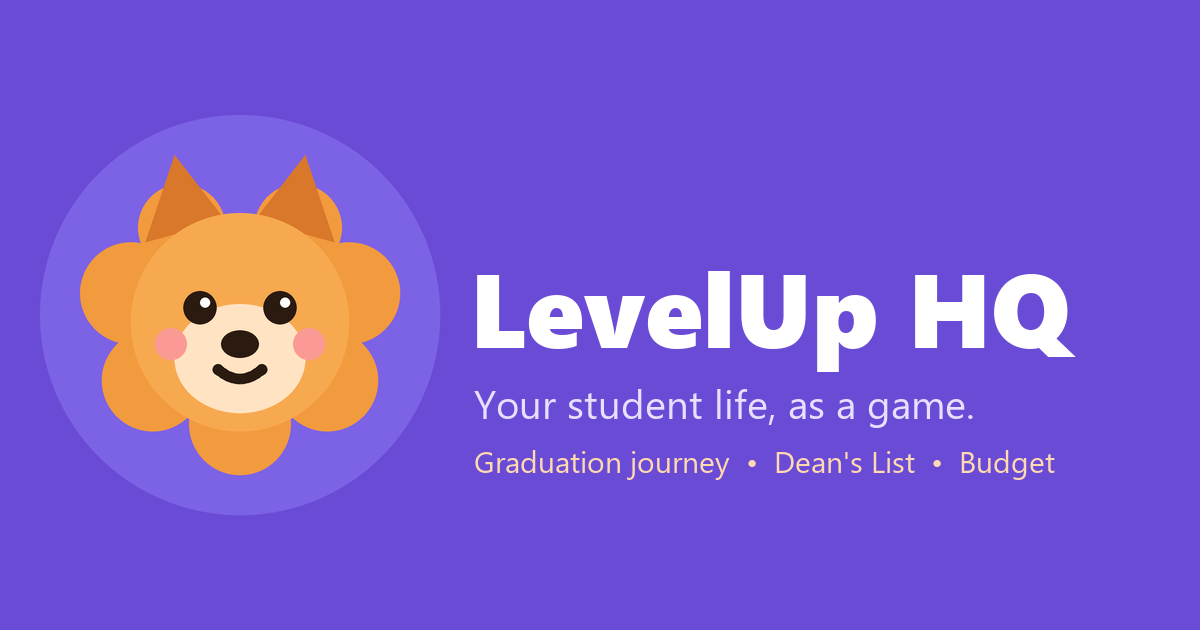
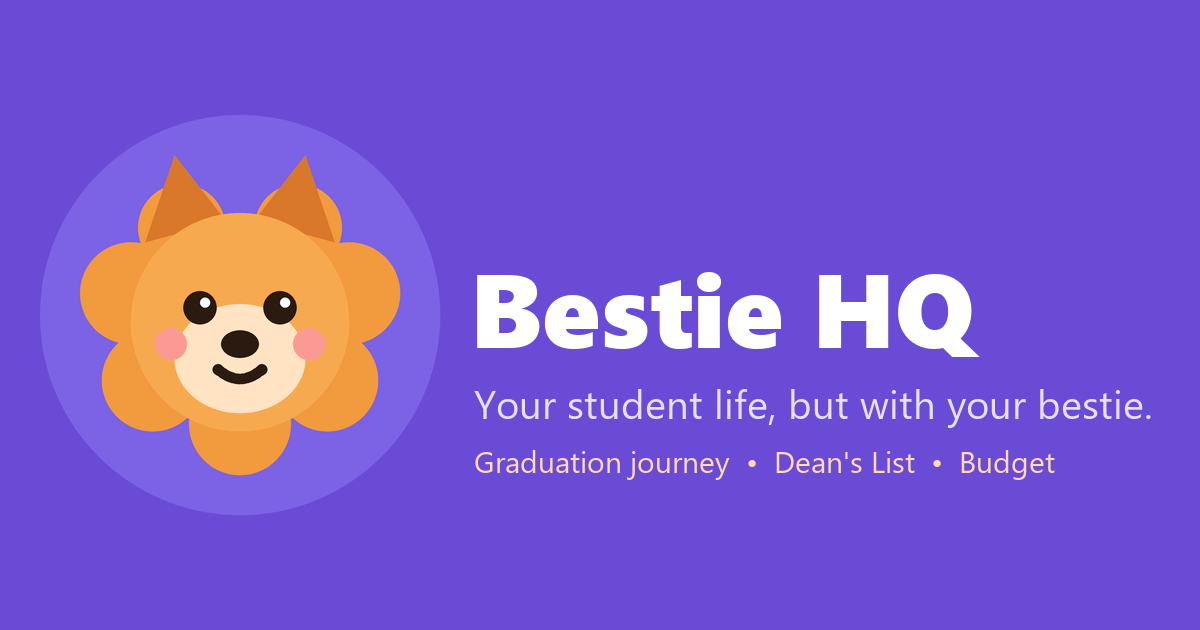
Rename the app to Bestie HQ (repo and link keep their old name)

Changed region(s): [[0.4008, 0.4222, 0.8942, 0.6032], [0.6475, 0.6032, 0.9558, 0.6937]]

diff --git a/index.html b/index.html
@@ -5,10 +5,10 @@
 <meta name="viewport" content="width=device-width, initial-scale=1, viewport-fit=cover">
 <meta name="theme-color" content="#f5f2fb" media="(prefers-color-scheme: light)">
 <meta name="theme-color" content="#140f20" media="(prefers-color-scheme: dark)">
-<title>LevelUp HQ</title>
+<title>Bestie HQ</title>
 <meta name="description" content="A cute, game-like student life app. Track your road to graduation, side quests, budget and wishlist, with a Pomeranian buddy.">
 <meta property="og:type" content="website">
-<meta property="og:title" content="LevelUp HQ">
+<meta property="og:title" content="Bestie HQ">
 <meta property="og:description" content="A cute, game-like student life app. Track your road to graduation, side quests, budget and wishlist.">
 <meta property="og:url" content="https://marjie19.github.io/levelup-hq/">
 <meta property="og:image" content="https://marjie19.github.io/levelup-hq/icons/og-image.png">
@@ -20,7 +20,7 @@
 <link rel="apple-touch-icon" href="icons/apple-touch-icon.png">
 <meta name="apple-mobile-web-app-capable" content="yes">
 <meta name="mobile-web-app-capable" content="yes">
-<meta name="apple-mobile-web-app-title" content="LevelUp">
+<meta name="apple-mobile-web-app-title" content="Bestie">
 <meta name="apple-mobile-web-app-status-bar-style" content="default">
 <link rel="preconnect" href="https://fonts.googleapis.com">
 <link rel="preconnect" href="https://fonts.gstatic.com" crossorigin>
@@ -33,7 +33,7 @@
 <div class="app">
   <!-- Phone: bottom tab bar. Laptop: left sidebar. Same buttons, CSS moves them. -->
   <nav class="nav" aria-label="Sections">
-    <div class="brand"><span id="brandPom"></span><b>LevelUp HQ</b></div>
+    <div class="brand"><span id="brandPom"></span><b>Bestie HQ</b></div>
     <div class="navlist" role="tablist">
       <button class="tab" role="tab" data-tab="home" type="button">
         <svg viewBox="0 0 24 24" aria-hidden="true"><path d="M12 21s-7-4.6-7-10.2A4 4 0 0 1 12 8a4 4 0 0 1 7 2.8C19 16.4 12 21 12 21Z"/></svg>

diff --git a/404.html b/404.html
@@ -3,7 +3,7 @@
 <head>
 <meta charset="utf-8">
 <meta name="viewport" content="width=device-width, initial-scale=1, viewport-fit=cover">
-<title>Page not found · LevelUp HQ</title>
+<title>Page not found · Bestie HQ</title>
 <link rel="icon" href="/levelup-hq/favicon.svg" type="image/svg+xml">
 <link rel="preconnect" href="https://fonts.googleapis.com">
 <link rel="preconnect" href="https://fonts.gstatic.com" crossorigin>
@@ -25,7 +25,7 @@
     <img src="/levelup-hq/favicon.svg" alt="">
     <h1>This page wandered off</h1>
     <p>The Pom sniffed around, but this page doesn't exist.</p>
-    <a href="/levelup-hq/">Back to LevelUp HQ</a>
+    <a href="/levelup-hq/">Back to Bestie HQ</a>
   </main>
 </body>
 </html>

diff --git a/js/modals.js b/js/modals.js
@@ -49,7 +49,7 @@ function openGoal(id){
     });
 }
 function openSetup(){
-  modal('<div style="display:flex;gap:12px;align-items:center">'+pomFor("pom")+'<h3>Welcome to LevelUp HQ</h3></div>' +
+  modal('<div style="display:flex;gap:12px;align-items:center">'+pomFor("pom")+'<h3>Welcome to Bestie HQ</h3></div>' +
     '<p class="muted" style="margin:0">Set up your journey. You can change all of this later in Settings.</p>' +
     '<form id="setupForm" class="sheetform">' + setupFields(true) +
     '<div class="acts"><button class="btn acc" type="submit">Start my journey</button></div></form>', m => {

diff --git a/docs/ROADMAP.md b/docs/ROADMAP.md
@@ -12,7 +12,7 @@ Marjie's big wishlist (Nov 17, 2026) and the decisions she made. Work top to bot
 - Build in small steps, test at 390px and desktop, commit after each step, update HANDOFF.
 
 ## New asks from Marjie (Nov 17, later). Do these right after the phase in progress
-- [ ] **NAME. Pick a catchier, cuter app name** (priority). Show 3 to 5 options and let Marjie choose. Change the shown name everywhere (title, header, manifest, share tags, README, docs). Keep the repo name and URL so the installed app and links keep working.
+- [x] **NAME. Done: the app is now "Bestie HQ".** (Marjie had no preference; she can still change it.) Original ask: pick a catchier, cuter app name (priority). Show 3 to 5 options and let Marjie choose. Change the shown name everywhere (title, header, manifest, share tags, README, docs). Keep the repo name and URL so the installed app and links keep working.
 - [ ] **M. Money coach + "real friend" voice.** Help save more and spend less: spending limits per category, a daily or weekly cap, no-spend streaks and challenges, an impulse-buy wait list ("wait 24 hours, still want it?"), "need or want?" check, savings jar, simple insights ("food is 45% of your spending"), warnings before you go over budget. The app talks like a real, blunt, caring friend: casual Taglish, funny, honest, teasing, no corporate filter, never cruel and no shaming about bodies, family or money struggles. Add a Tone setting (Gentle / Real talk / Savage roast, default Real talk). Write `docs/VOICE.md` with the voice rules and apply it to all app text.
 - [ ] **N. Reminders.** Real notifications for tasks, deadlines, quizzes, budget and "feed your companion". Honest limits: browsers only show reminders when the app can run; on iPhone it needs the installed app (iOS 16.4+) and true background push needs a small server. Plan: (1) in-app reminders and notifications while the app is open, (2) "Add to phone calendar" (.ics) so the phone itself reminds even offline, (3) Web Push later with login and a server.
 - [ ] **P. Profile page.** One easy place to customize everything: name, picture (their companion or a photo), school and program, grading rules, theme colors, light/dark, tone, reminders, companion styles, backup and restore.

diff --git a/docs/HANDOFF.md b/docs/HANDOFF.md
@@ -1,5 +1,9 @@
 # Handoff
 
+**App name: Bestie HQ** (renamed Nov 17 from LevelUp HQ; Marjie had no preference, so the recommended name was used). The repo, web link, localStorage key and cache names keep the old levelup-hq spelling on purpose so nothing breaks.
+
+**If `git push` hangs** (it waits on a hidden Git Credential Manager login window), push with the GitHub CLI login: `git -c credential.helper= -c "credential.helper=!\"C:/Program Files/GitHub CLI/gh.exe\" auth git-credential" push origin <branch>`.
+
 **Last updated:** Nov 17, 2026
 
 ## Done

diff --git a/CLAUDE.md b/CLAUDE.md
@@ -1,4 +1,4 @@
-# LevelUp HQ
+# Bestie HQ (the repo and web link are still named levelup-hq)
 
 My all-in-one student life app. It's a personal project and a portfolio piece for my resume, since I want to become a product manager.
 

diff --git a/README.md b/README.md
@@ -1,4 +1,4 @@
-# LevelUp HQ 🐶
+# Bestie HQ 🐶
 
 A game-style student life app: level up your grades, certs and life goals, and track your money and wishlist.
 
